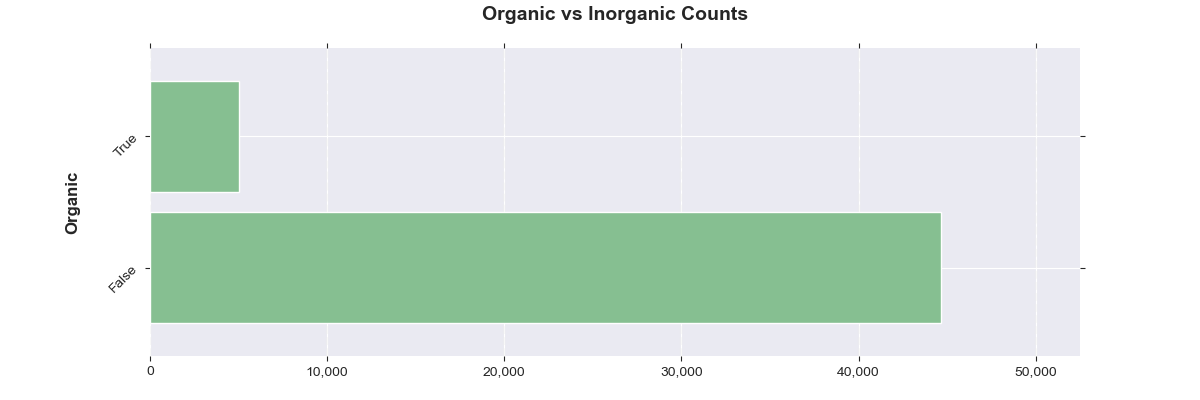
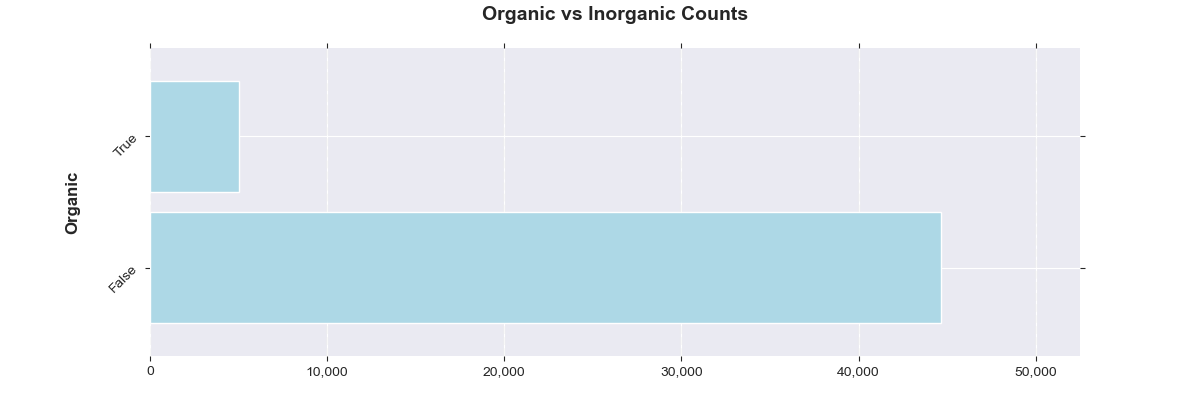
change some chart colors, update readme.

Changed region(s): [[0.1233, 0.51, 0.8017, 0.81], [0.1233, 0.18, 0.2158, 0.48]]

diff --git a/_util/custom_plotting.py b/_util/custom_plotting.py
@@ -64,6 +64,7 @@ def horizontal_bar(series
                    , x_label=None
                    , y_label=None
                    , title=None
+                   , color=None
                    , save_as=None):
 
     # Abstract input
@@ -99,7 +100,7 @@ def horizontal_bar(series
     if xdim is not None:
         x = x.tail(xdim)
 
-    ax = x.plot(kind='barh', figsize=figsize, color='#86bf91', zorder=2, width=0.85)
+    ax = x.plot(kind='barh', figsize=figsize, color=color, zorder=2, width=0.85)
 
     # Rotate y-axis labels
     for label in ax.get_yticklabels():

diff --git a/README.md b/README.md
@@ -73,6 +73,18 @@ The Instacart Market Basket Analysis is focused on understanding customer purcha
   <img width="350" height="150" src="https://github.com/japoeder/Basket-Analysis/blob/master/_plts/lowest_20_aisles_reorder_ratio.png?raw=true">
 </p>
 
+<p align="center">
+  <img width="700" height="200" src="https://github.com/japoeder/Basket-Analysis/blob/master/_plts/Department Order & Reorder Frequency.png?raw=true">
+</p>
+
+<p align="center">
+  <img width="700" height="200" src="https://github.com/japoeder/Basket-Analysis/blob/master/_plts/Top Products.png?raw=true">
+</p>
+
+<p align="center">
+  <img width="700" height="200" src="https://github.com/japoeder/Basket-Analysis/blob/master/_plts/Organic vs Inorganic Counts.png?raw=true">
+  <img width="700" height="200" src="https://github.com/japoeder/Basket-Analysis/blob/master/_plts/Organic vs Inorganic Reorders.png?raw=true">
+</p>
 
 
 
